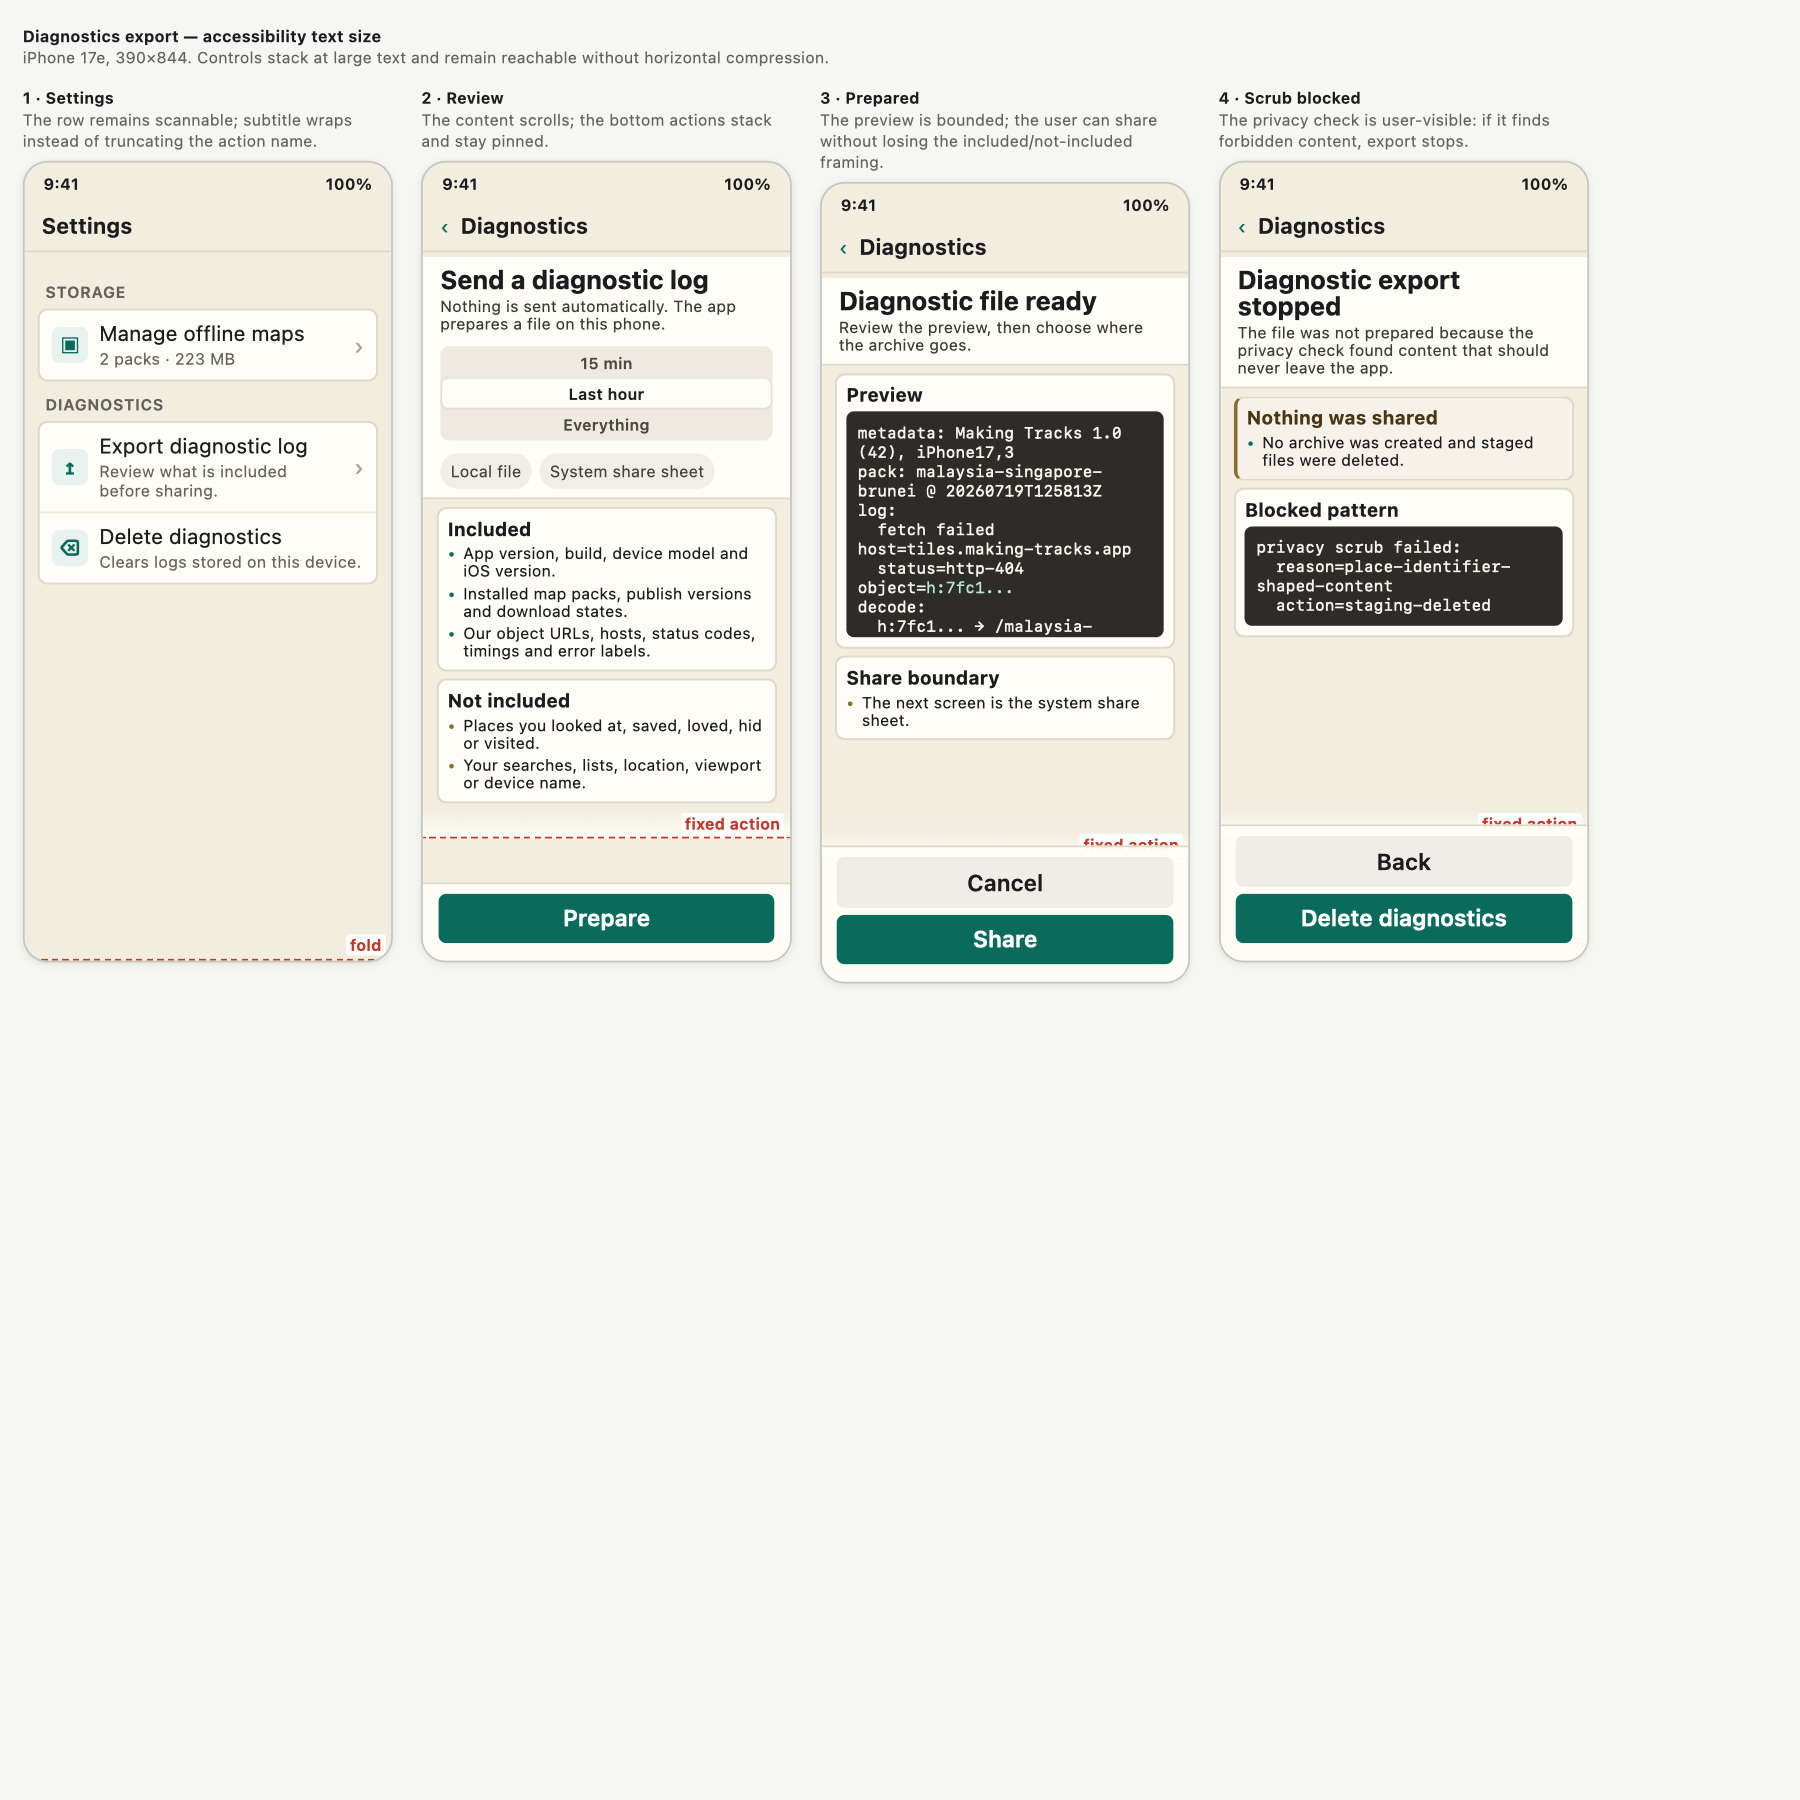
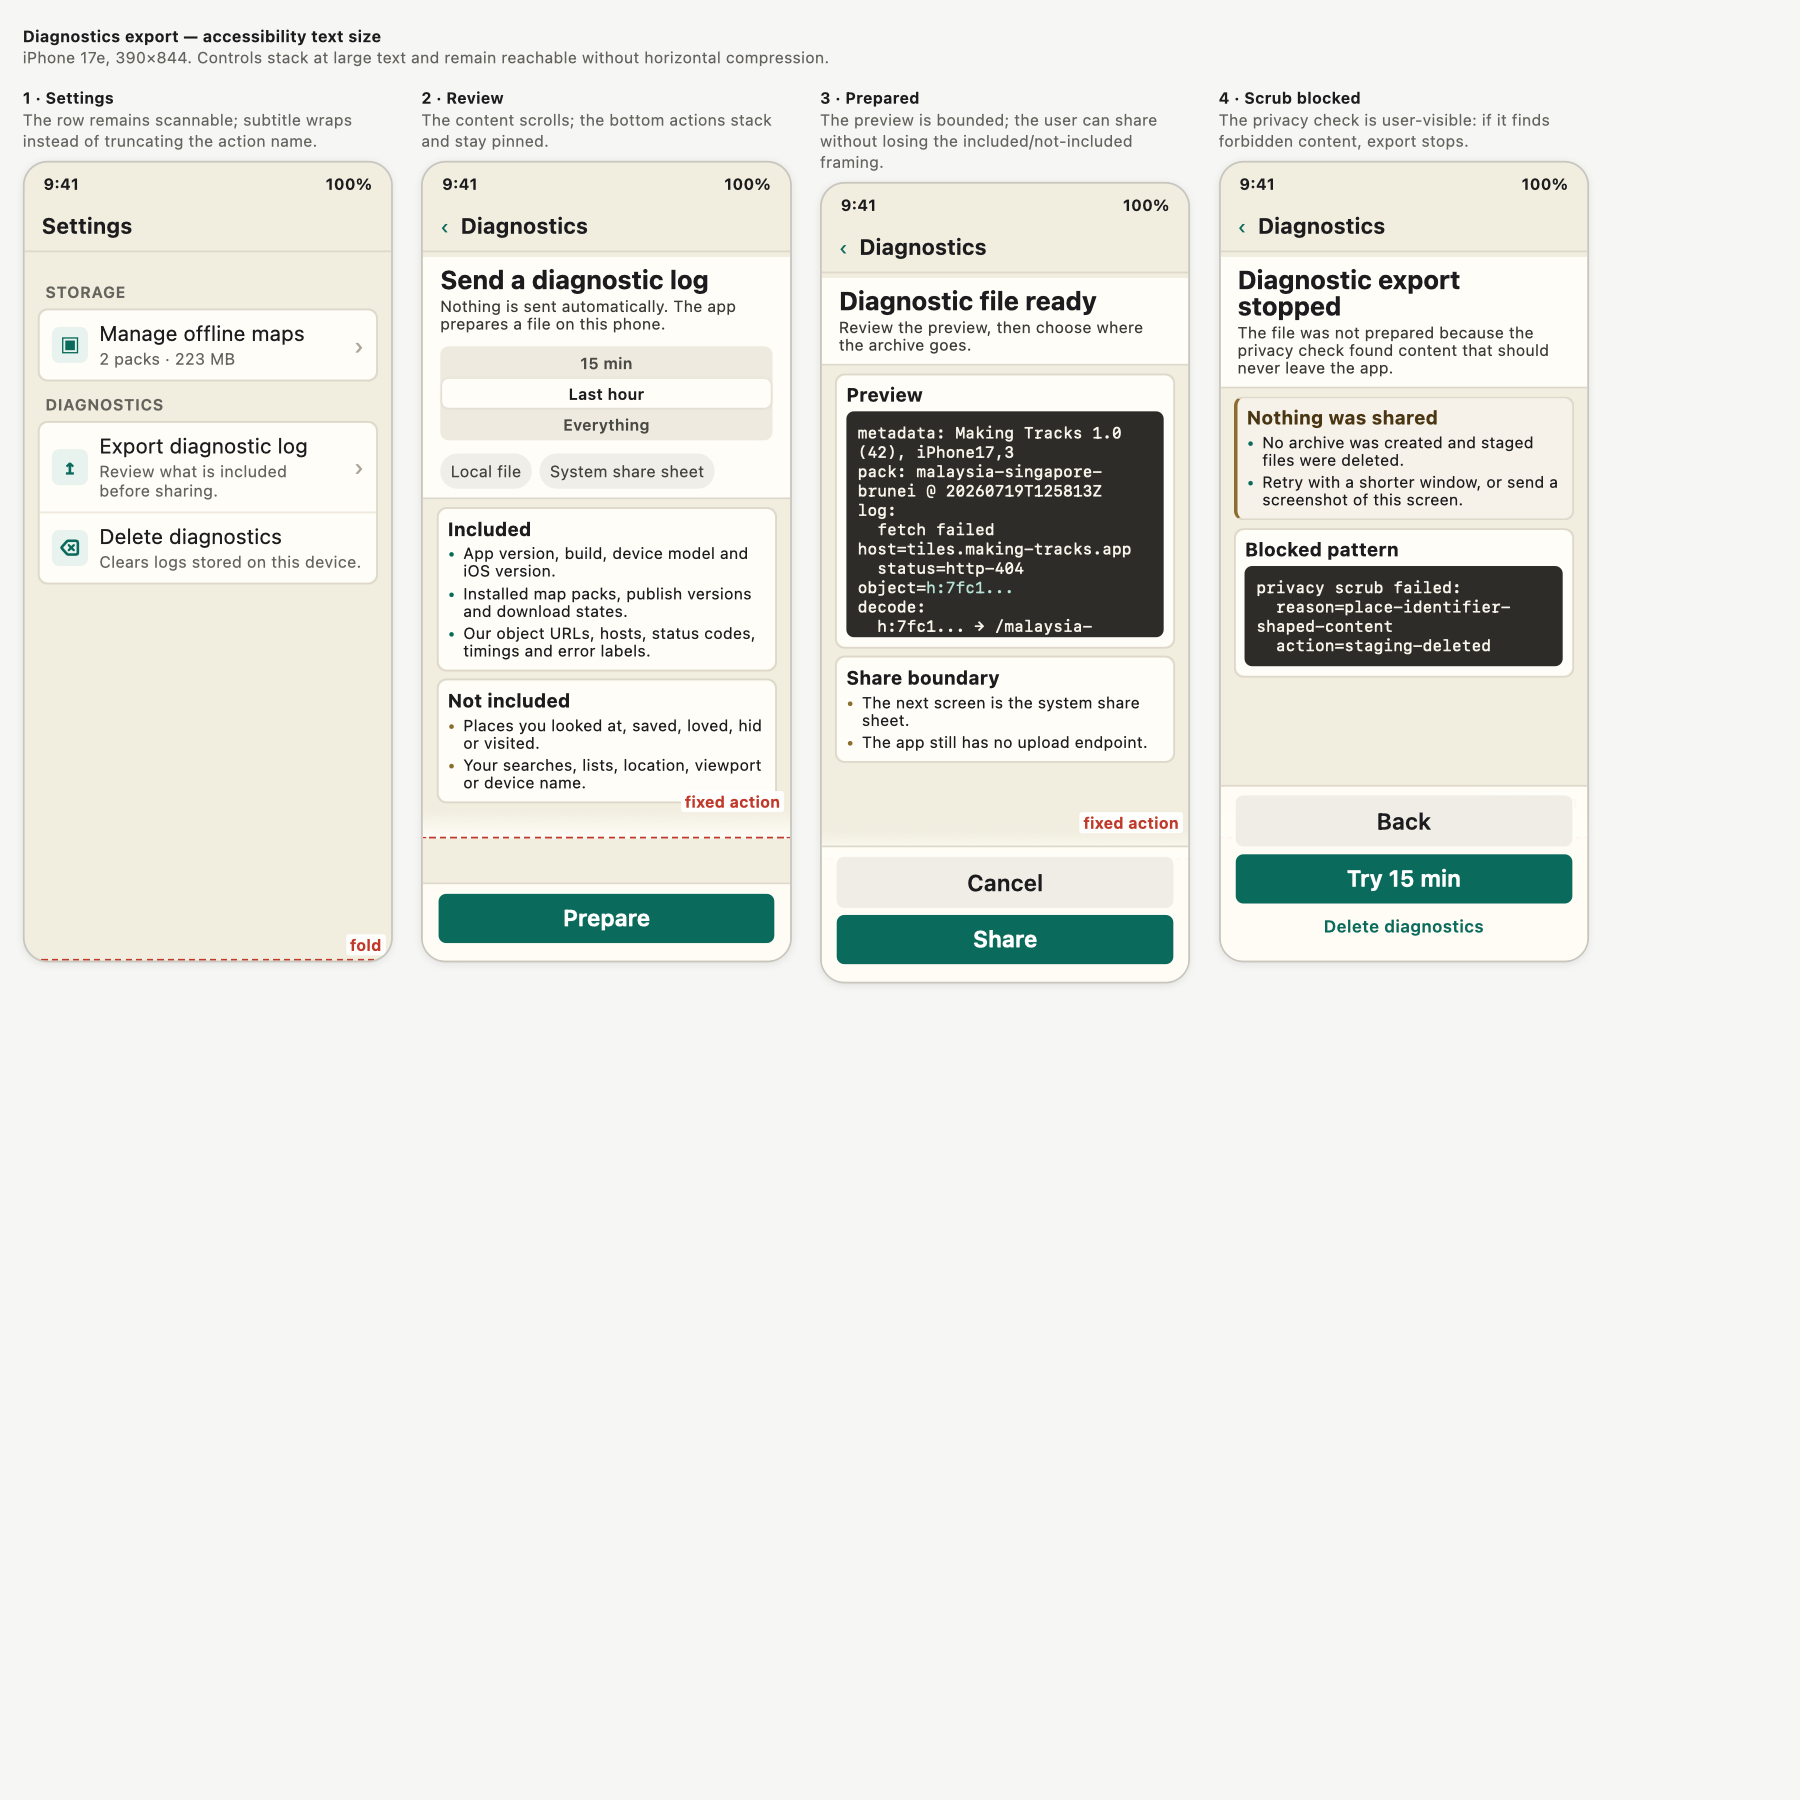
Wire logging privacy lint into CI

diff --git a/ios/Tests/MakingTracksTilesTests/LoggingPrivacyTests.swift b/ios/Tests/MakingTracksTilesTests/LoggingPrivacyTests.swift
@@ -18,35 +18,35 @@ final class LoggingPrivacyTests: XCTestCase {
             root.appendingPathComponent("Sources"),
             root.appendingPathComponent("App/Sources"),
         ]
-        let forbiddenPatterns = [
-            #"(?i)\blat\b"#, #"(?i)latitude"#, #"(?i)\blon\b"#, #"(?i)longitude"#,
-            #"(?i)coordinate"#, #"(?i)\bbbox\b"#,
-            #"(?i)placeID"#, #"(?i)placeId"#, #"(?i)place_id"#, #"(?i)placeName"#, #"(?i)\bplace\."#, #"(?i)name:"#,
-            #"(?i)absoluteString"#, #"(?i)path:"#, #"(?i)url:"#, #"URL\("#,
-            #"\\\(url(?:[,)]|\s)"#,
-            #"(?i)\bregion=\\\([^)]*, privacy: \.public"#,
-            #"(?i)\bpausedRegion=\\\([^)]*, privacy: \.public"#,
-            #"(?i)\bidentifier=\\\([^)]*, privacy: \.public"#,
-        ]
 
         for sourceRoot in sourceRoots {
             for fileURL in try swiftFiles(under: sourceRoot) {
                 let source = try String(contentsOf: fileURL, encoding: .utf8)
-                for line in source.split(separator: "\n", omittingEmptySubsequences: false) {
-                    guard line.contains("MakingTracksLog.") else { continue }
-                    XCTAssertTrue(
-                        logLineHasExplicitPrivacyAnnotations(String(line)),
-                        "\(fileURL.path): log interpolation lacks explicit privacy annotation: \(line)"
-                    )
-                    for pattern in forbiddenPatterns {
-                        XCTAssertFalse(
-                            line.range(of: pattern, options: .regularExpression) != nil,
-                            "\(fileURL.path): log line matches forbidden pattern '\(pattern)': \(line)"
-                        )
-                    }
+                for finding in privacyLintFindings(in: source) {
+                    XCTFail("\(fileURL.path): \(finding)")
                 }
             }
         }
+    }
+
+    func testPrivacyLintRejectsWrappedFileSinkBypasses() {
+        let unsafeSource = #"""
+        func leak(placeID: String, url: URL) {
+            MakingTracksLog.file(
+                .resolution,
+                level: .error,
+                "export leak",
+                fields: [
+                    .public("placeID", placeID),
+                    .public("rawURL", url.absoluteString)
+                ]
+            )
+        }
+        """#
+
+        let findings = privacyLintFindings(in: unsafeSource)
+
+        XCTAssertFalse(findings.isEmpty)
     }
 
     func testPrivacyLintRejectsRepresentativeBypasses() {
@@ -122,6 +122,15 @@ final class LoggingPrivacyTests: XCTestCase {
         }
     }
 
+    func testLoggingPrivacySuiteIsWiredIntoCI() throws {
+        let workflow = try String(
+            contentsOf: repoRoot().appendingPathComponent(".github/workflows/ios-logging-privacy.yml"),
+            encoding: .utf8
+        )
+
+        XCTAssertTrue(workflow.contains("swift test --filter LoggingPrivacyTests"))
+    }
+
     private func logLineHasExplicitPrivacyAnnotations(_ line: String) -> Bool {
         for interpolation in logInterpolations(in: line) {
             if interpolation.range(of: #"privacy\s*:"#, options: .regularExpression) == nil {
@@ -129,6 +138,95 @@ final class LoggingPrivacyTests: XCTestCase {
             }
         }
         return true
+    }
+
+    private func privacyLintFindings(in source: String) -> [String] {
+        let forbiddenPatterns = [
+            #"(?i)\blat\b"#, #"(?i)latitude"#, #"(?i)\blon\b"#, #"(?i)longitude"#,
+            #"(?i)coordinate"#, #"(?i)\bbbox\b"#,
+            #"(?i)placeID"#, #"(?i)placeId"#, #"(?i)place_id"#, #"(?i)placeName"#, #"(?i)\bplace\."#, #"(?i)name:"#,
+            #"(?i)absoluteString"#, #"(?i)path:"#, #"(?i)url:"#, #"URL\("#,
+            #"\\\(url(?:[,)]|\s)"#,
+            #"(?i)\bregion=\\\([^)]*, privacy: \.public"#,
+            #"(?i)\bpausedRegion=\\\([^)]*, privacy: \.public"#,
+            #"(?i)\bidentifier=\\\([^)]*, privacy: \.public"#,
+        ]
+        var findings: [String] = []
+        for call in logFacadeCalls(in: source) {
+            if !logLineHasExplicitPrivacyAnnotations(call) {
+                findings.append("log interpolation lacks explicit privacy annotation: \(call)")
+            }
+            for pattern in forbiddenPatterns where call.range(of: pattern, options: .regularExpression) != nil {
+                findings.append("log call matches forbidden pattern '\(pattern)': \(call)")
+            }
+        }
+        return findings
+    }
+
+    private func logFacadeCalls(in source: String) -> [String] {
+        var calls: [String] = []
+        var searchStart = source.startIndex
+
+        while let match = source.range(of: "MakingTracksLog.", range: searchStart..<source.endIndex) {
+            let start = match.lowerBound
+            guard let open = firstOpeningParenthesis(in: source, from: match.upperBound) else {
+                searchStart = match.upperBound
+                continue
+            }
+
+            var cursor = open
+            var depth = 0
+            var isInString = false
+            var escaped = false
+            while cursor < source.endIndex {
+                let character = source[cursor]
+                if isInString {
+                    if escaped {
+                        escaped = false
+                    } else if character == "\\" {
+                        escaped = true
+                    } else if character == "\"" {
+                        isInString = false
+                    }
+                } else if character == "\"" {
+                    isInString = true
+                } else if character == "(" {
+                    depth += 1
+                } else if character == ")" {
+                    depth -= 1
+                    if depth == 0 {
+                        calls.append(String(source[start...cursor]))
+                        searchStart = source.index(after: cursor)
+                        break
+                    }
+                }
+                cursor = source.index(after: cursor)
+            }
+
+            if cursor >= source.endIndex {
+                searchStart = source.endIndex
+            }
+        }
+        return calls
+    }
+
+    private func firstOpeningParenthesis(in source: String, from start: String.Index) -> String.Index? {
+        var cursor = start
+        while cursor < source.endIndex {
+            let character = source[cursor]
+            if character == "(" {
+                return cursor
+            }
+            if character.isWhitespace == false,
+               character != ".",
+               character != "_",
+               character.isLetter == false,
+               character.isNumber == false {
+                return nil
+            }
+            cursor = source.index(after: cursor)
+        }
+        return nil
     }
 
     private func logInterpolations(in line: String) -> [String] {
@@ -179,6 +277,11 @@ final class LoggingPrivacyTests: XCTestCase {
             current.deleteLastPathComponent()
         }
         throw NSError(domain: "LoggingPrivacyTests", code: 1)
+    }
+
+    private func repoRoot() throws -> URL {
+        let package = try packageRoot()
+        return package.deletingLastPathComponent()
     }
 
     private func swiftFiles(under root: URL) throws -> [URL] {

diff --git a/docs/design/log-export/wf-diagnostics-ax.html b/docs/design/log-export/wf-diagnostics-ax.html
@@ -162,11 +162,12 @@
       text-align: center;
     }
     .btn.primary { background: var(--accent); color: white; }
+    .textlink { color: var(--accent); flex: none; font-size: 18px; font-weight: 600; min-height: 34px; padding: 6px 8px; text-align: center; }
     .clip { bottom: 128px; left: 0; overflow: hidden; position: absolute; right: 0; top: 99px; }
     .fade { background: linear-gradient(to bottom, rgba(255,253,247,0), rgba(255,253,247,.98)); bottom: 128px; height: 32px; left: 0; position: absolute; right: 0; }
     .badge { background: #e6f2ee; border-radius: 4px; color: var(--accent); font-size: 10px; font-weight: 700; left: 12px; padding: 3px 7px; position: absolute; top: 106px; }
     .fold { border-top: 2px dashed #c0392b; bottom: 128px; left: 0; position: absolute; right: 0; }
-    .foldlab { background: rgba(255,255,255,.92); border-radius: 3px; bottom: 133px; color: #c0392b; font-size: 9.5px; font-weight: 650; padding: 1px 4px; position: absolute; right: 6px; }
+    .foldlab { background: rgba(255,255,255,.92); border-radius: 3px; bottom: 156px; color: #c0392b; font-size: 9.5px; font-weight: 650; padding: 1px 4px; position: absolute; right: 6px; }
     .fold.settings { bottom: 0; }
     .foldlab.settings { bottom: 5px; }
     .failure { background: #f6f2ea; border-left: 4px solid var(--warn); }
@@ -257,7 +258,10 @@ decode:
         </div>
         <div class="panel not">
           <h3>Share boundary</h3>
-          <div class="bullet"><span class="dot">•</span><span>The next screen is the system share sheet.</span></div>
+          <div class="bullets">
+            <div class="bullet"><span class="dot">•</span><span>The next screen is the system share sheet.</span></div>
+            <div class="bullet"><span class="dot">•</span><span>The app still has no upload endpoint.</span></div>
+          </div>
         </div>
       </div>
       <div class="fade"></div>
@@ -278,7 +282,10 @@ decode:
         </div>
         <div class="panel failure">
           <h3>Nothing was shared</h3>
-          <div class="bullet"><span class="dot">•</span><span>No archive was created and staged files were deleted.</span></div>
+          <div class="bullets">
+            <div class="bullet"><span class="dot">•</span><span>No archive was created and staged files were deleted.</span></div>
+            <div class="bullet"><span class="dot">•</span><span>Retry with a shorter window, or send a screenshot of this screen.</span></div>
+          </div>
         </div>
         <div class="panel not">
           <h3>Blocked pattern</h3>
@@ -289,7 +296,7 @@ decode:
       </div>
       <div class="fade"></div>
       <div class="fold"></div><div class="foldlab">fixed action</div>
-      <div class="bar"><div class="btn">Back</div><div class="btn primary">Delete diagnostics</div></div>
+      <div class="bar"><div class="btn">Back</div><div class="btn primary">Try 15 min</div><div class="textlink">Delete diagnostics</div></div>
     </div>
   </div>
 </div>

diff --git a/docs/design/log-export/wf-diagnostics-default.html b/docs/design/log-export/wf-diagnostics-default.html
@@ -162,7 +162,8 @@
     }
     .btn.primary { background: var(--accent); color: white; }
     .fold { border-top: 2px dashed #c0392b; bottom: 76px; left: 0; position: absolute; right: 0; }
-    .foldlab { background: rgba(255,255,255,.92); border-radius: 3px; bottom: 81px; color: #c0392b; font-size: 9.5px; font-weight: 650; padding: 1px 4px; position: absolute; right: 6px; }
+    .foldlab { background: rgba(255,255,255,.92); border-radius: 3px; bottom: 104px; color: #c0392b; font-size: 9.5px; font-weight: 650; padding: 1px 4px; position: absolute; right: 6px; }
+    .textlink { align-self: center; color: var(--accent); flex: none; font-size: 13px; font-weight: 600; padding: 12px 2px; text-align: center; }
     .fold.settings { bottom: 0; }
     .foldlab.settings { bottom: 5px; }
     .failure { background: #f6f2ea; border-left: 4px solid var(--warn); }
@@ -275,7 +276,7 @@ decode-table:
         <h3>Nothing was shared</h3>
         <div class="bullets">
           <div class="bullet"><span class="dot">•</span><span>No archive was created and the staged files were deleted.</span></div>
-          <div class="bullet"><span class="dot">•</span><span>Try again after deleting diagnostics, or send a screenshot of this screen.</span></div>
+          <div class="bullet"><span class="dot">•</span><span>Retry with a shorter window, or send a screenshot of this screen.</span></div>
         </div>
       </div>
       <div class="panel not">
@@ -285,7 +286,7 @@ decode-table:
   action=staging-deleted</div>
       </div>
       <div class="fold"></div><div class="foldlab">fixed action</div>
-      <div class="bar"><div class="btn">Back</div><div class="btn primary">Delete diagnostics</div></div>
+      <div class="bar"><div class="btn">Back</div><div class="btn primary">Try 15 min</div><div class="textlink">Delete diagnostics</div></div>
     </div>
   </div>
 </div>

diff --git a/docs/design/log-export/README.md b/docs/design/log-export/README.md
@@ -23,3 +23,4 @@ Validation notes:
 - Raw preview keeps object identifiers hashed and includes the decode table in the bundle.
 - The not-included privacy promise is identical in default and accessibility-size renders.
 - Scrub failure is a user-visible, fail-closed state.
+- Plaintext pack metadata in the header is deliberate: the header is generated at export time and lists installed packs with publish versions, while the hashed log line represents the at-rest file sink. Different artifacts, different moments.
